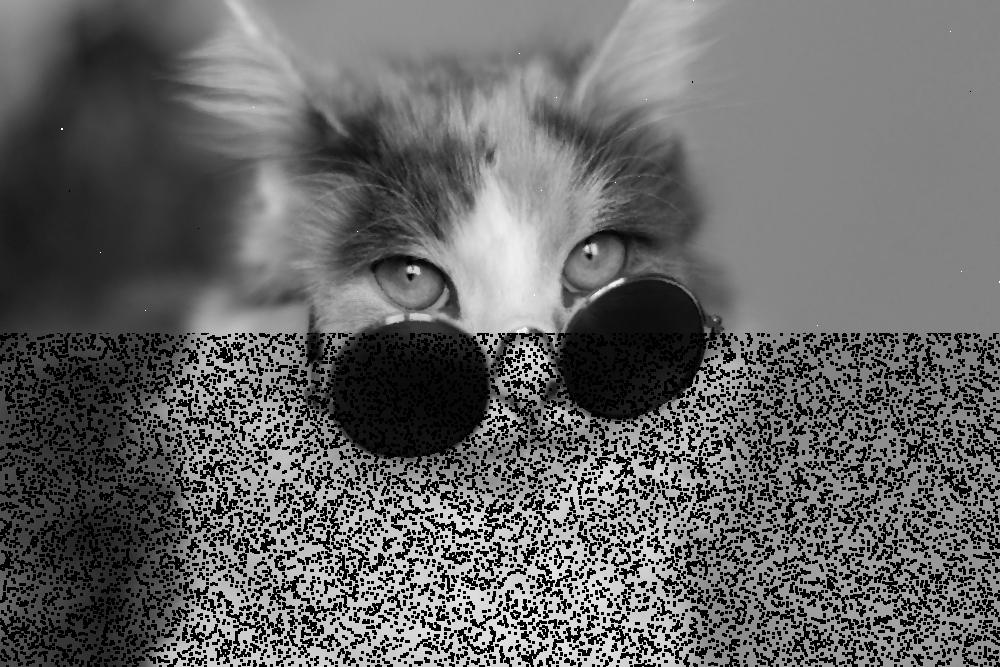
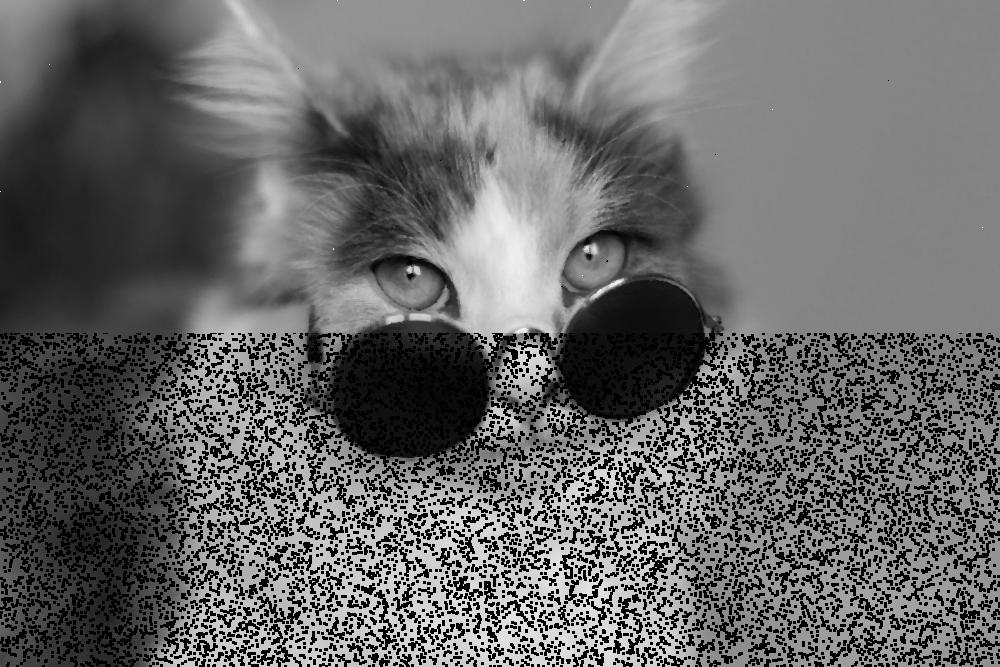
Mat_Assignment

Changed region(s): [[0.0, 0.4798, 1.0, 1.0]]

diff --git a/Assignment3/A_2_20200204037.m b/Assignment3/A_2_20200204037.m
@@ -1,0 +1,66 @@
+img = imread('cat.jpg'); % Replace with your image path
+
+
+if size(img, 3) == 3
+    img = rgb2gray(img);
+end
+
+
+noisy_img = imnoise(img, 'salt & pepper', 0.1);
+
+
+[rows, cols] = size(noisy_img);
+
+
+top_half_rows = 1:floor(rows/2);
+bottom_half_rows = (floor(rows/2) + 1):rows;
+
+
+filtered_img = noisy_img;
+
+
+padded = uint8(zeros(rows + 2, cols + 2));
+padded(2:end-1, 2:end-1) = noisy_img;
+
+
+padded(1, 2:end-1) = noisy_img(1, :);
+
+padded(end, 2:end-1) = noisy_img(end, :);
+
+padded(2:end-1, 1) = noisy_img(:, 1);
+
+padded(2:end-1, end) = noisy_img(:, end);
+
+padded(1, 1) = noisy_img(1, 1);
+padded(1, end) = noisy_img(1, end);
+padded(end, 1) = noisy_img(end, 1);
+padded(end, end) = noisy_img(end, end);
+
+
+for i = top_half_rows
+    for j = 1:cols
+        
+        window = padded(i:i+2, j:j+2);
+       
+        sorted_window = sort(window(:));
+        filtered_img(i, j) = sorted_window(5);
+    end
+end
+
+
+for i = bottom_half_rows
+    for j = 1:cols
+        
+        window = padded(i:i+2, j:j+2);
+       
+        filtered_img(i, j) = min(window(:));
+    end
+end
+
+
+figure;
+subplot(1, 2, 1), imshow(noisy_img), title('Noisy Image');
+subplot(1, 2, 2), imshow(filtered_img), title('Filtered Image');
+
+
+imwrite(filtered_img, 'filtered_image.jpg');
